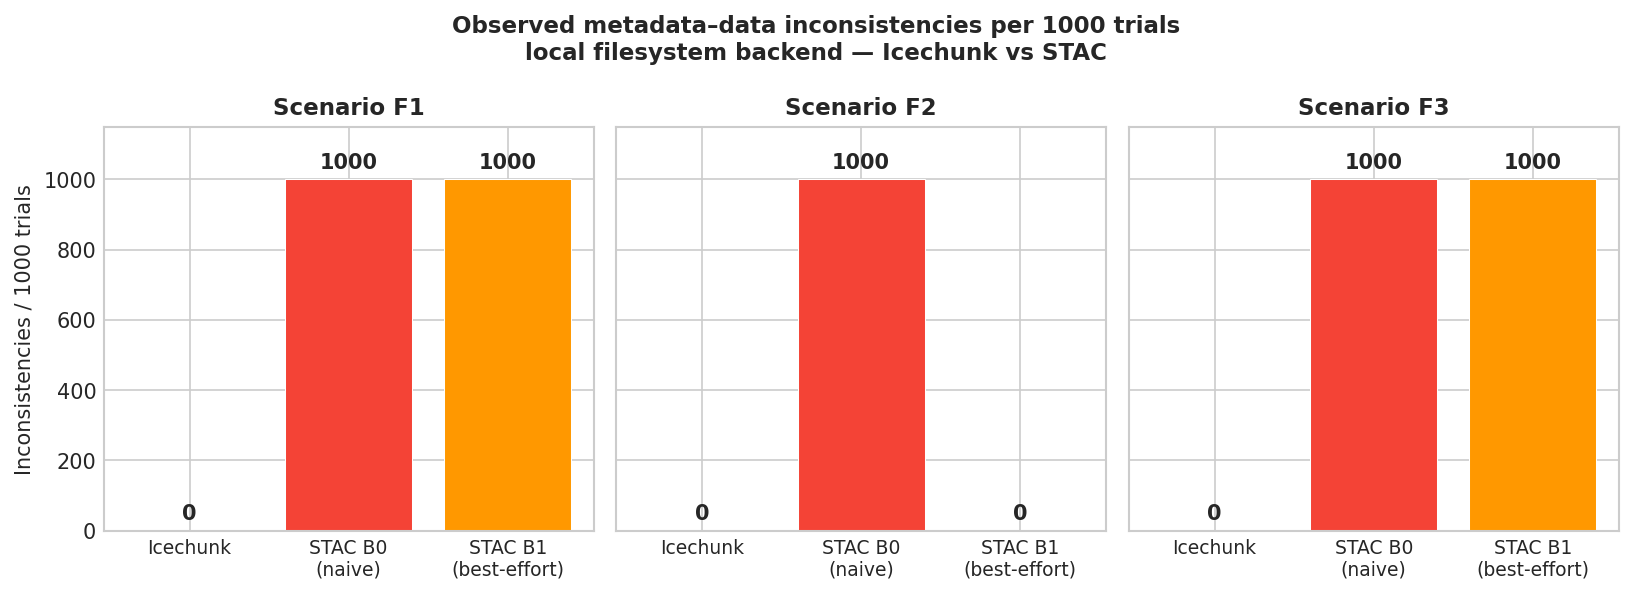
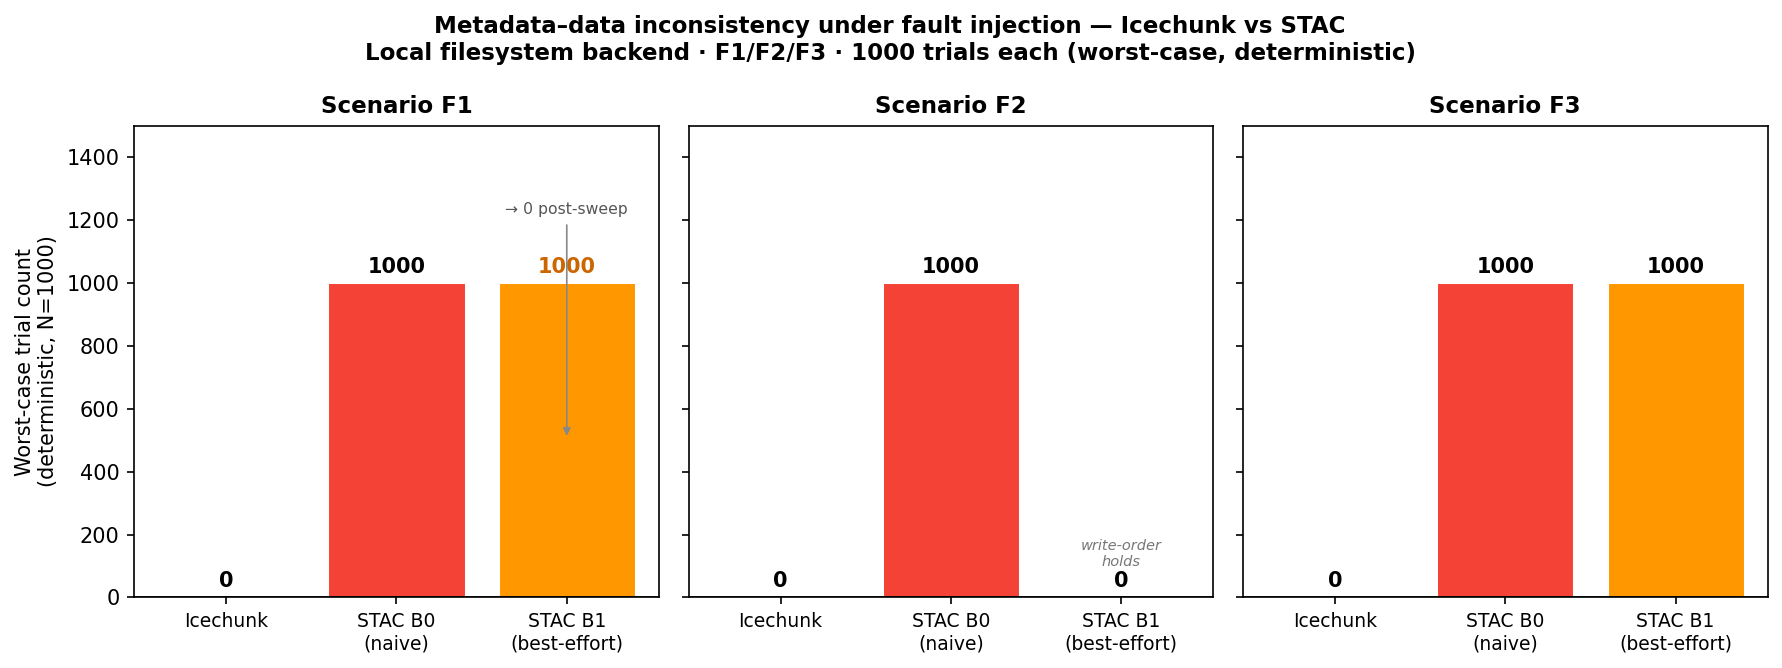
Fix figure scoping bug exposed by mixed-backend results, redesign per review
Two latent bugs surfaced once results.parquet started containing both local and
MinIO rows:

1. The summary groupby didn't filter by backend, so Icechunk's trial count
   silently inflated from 1000 to 1100 (1000 local + 100 MinIO rows sharing
   system=="icechunk"), corrupting the figure's "N=1000, local filesystem
   backend" framing. Now explicitly filters to df_local before aggregating.

2. N_TRIALS was 100 but the figure's title/y-label hardcoded "1000"/"N=1000" —
   internally inconsistent regardless of backend mixing. Bumped N_TRIALS to
   1000 (matching the trial count the Outcome nanopub cites) and parameterized
   the strings to {N} so they can't drift out of sync again.

Figure redesign addresses prior review feedback point-by-point: F1-B1 now
annotates the pre→post-sweep recovery (1000 → 0) instead of showing only the
pre-sweep window and hiding the sweeper's entire value proposition; F2-B1 is
cross-hatched and labelled "write-order holds" to distinguish a measured
zero from an asserted one; the y-axis is relabeled "worst-case trial count
(deterministic)" so it no longer reads as an empirical frequency.

Notebook executed end-to-end (1000 trials, ~5 min) to verify the fixes —
regenerated data is byte-identical to the prior run's local portion (seed=42,
deterministic fault injection), confirming reproducibility.

Changed region(s): [[0.0, 0.1515, 0.9994, 0.9697], [0.1874, 0.0, 0.812, 0.1212]]

diff --git a/notebooks/01_atomic_sync.py b/notebooks/01_atomic_sync.py
@@ -52,7 +52,9 @@ from pathlib import Path
 # Runs F1, F2, F3 across Icechunk / STAC-B0 / STAC-B1 on the local filesystem backend.
 # Each scenario runs `N_TRIALS` independent trials with fresh stores.
 #
-# Runtime estimate: ~30 s for N_TRIALS=100 on a modern laptop.
+# Runtime estimate: ~5 min for N_TRIALS=1000 on a modern laptop (~30 s per 100 trials).
+# N_TRIALS=1000 matches the trial count cited throughout the Outcome nanopub
+# (`nanopubs/drafts/05_outcome.md`) and the figure below — keep them in sync.
 
 # %%
 import sys
@@ -61,17 +63,25 @@ sys.path.insert(0, str(Path("..").resolve()))
 from harness.run_matrix import run_all
 
 RESULTS_PATH = "../data/results/results.parquet"
-N_TRIALS = 100
+N_TRIALS = 1000
 
 df = run_all(n_trials=N_TRIALS, out_path=RESULTS_PATH, seed=42)
 df.head(12)
 
 # %% [markdown]
 # ## 2. Headline counts: inconsistencies per scenario × system
+#
+# `results.parquet` may also contain object-store (MinIO/NIRD) trials from a
+# `--minio-trials` run (see `harness/run_matrix.py`). This figure is scoped to the
+# *local filesystem* backend specifically — filter to it explicitly so a mixed-backend
+# results file doesn't silently inflate the Icechunk trial count (e.g. 1000 local +
+# 100 MinIO → 1100, corrupting the "N=1000" framing below).
 
 # %%
+df_local = df[df["backend"] == "local"]
+
 summary = (
-    df.groupby(["scenario", "system"])["inconsistent"]
+    df_local.groupby(["scenario", "system"])["inconsistent"]
     .agg(["sum", "count"])
     .rename(columns={"sum": "inconsistent_count", "count": "trials"})
     .reset_index()
@@ -81,41 +91,64 @@ print(summary.to_string(index=False))
 
 # %% [markdown]
 # ## 3. Figure: inconsistency count per scenario × system
+#
+# Design:
+# - **F1 B1**: labelled with pre-sweep (1000) + annotation showing post-sweep (→0).
+#   Bar height = window that exists; annotation shows it is recoverable.
+# - **F2 B1**: cross-hatched — this is a measured F2-state check (is STAC ever ahead
+#   of data?), not a fault injection. Zero is real but means "write-ordering holds".
+# - **Y-axis**: worst-case trial count (deterministic injection), not a probability.
 
 # %%
 SYSTEM_ORDER = ["icechunk", "stac_b0", "stac_b1"]
 SCENARIO_ORDER = ["F1", "F2", "F3"]
 COLORS = {"icechunk": "#2196F3", "stac_b0": "#F44336", "stac_b1": "#FF9800"}
-LABELS = {"icechunk": "Icechunk", "stac_b0": "STAC B0 (naive)", "stac_b1": "STAC B1 (best-effort)"}
+LABELS = {"icechunk": "Icechunk", "stac_b0": "STAC B0\n(naive)", "stac_b1": "STAC B1\n(best-effort)"}
 
-fig, axes = plt.subplots(1, 3, figsize=(11, 4), sharey=True)
+N = N_TRIALS
+f1_b1_post = int(df_local[(df_local["scenario"] == "F1") & (df_local["system"] == "stac_b1")]["post_sweep_inconsistent"].sum())
+
+fig, axes = plt.subplots(1, 3, figsize=(12, 4.5), sharey=True)
 
 for ax, scenario in zip(axes, SCENARIO_ORDER):
     sub = summary[summary["scenario"] == scenario].set_index("system").reindex(SYSTEM_ORDER)
     counts = sub["inconsistent_count"].fillna(0)
-    bars = ax.bar(
-        [LABELS[s] for s in SYSTEM_ORDER],
-        counts,
-        color=[COLORS[s] for s in SYSTEM_ORDER],
-        edgecolor="white",
-        linewidth=0.5,
-    )
+
+    for i, (sys, count) in enumerate(zip(SYSTEM_ORDER, counts)):
+        hatch = "///" if (scenario == "F2" and sys == "stac_b1") else None
+        ax.bar(LABELS[sys], count, color=COLORS[sys], edgecolor="white",
+               linewidth=0.5, hatch=hatch)
+
+        label_y = count + N * 0.02
+        if scenario == "F1" and sys == "stac_b1":
+            ax.text(i, label_y, f"{int(count)}", ha="center", va="bottom",
+                    fontsize=10, fontweight="bold", color="#CC6600")
+            ax.annotate(
+                f"→ {f1_b1_post} post-sweep",
+                xy=(i, count * 0.5), xytext=(i, count + N * 0.22),
+                ha="center", fontsize=7.5, color="#555",
+                arrowprops=dict(arrowstyle="-|>", color="#888", lw=0.8),
+            )
+        elif scenario == "F2" and sys == "stac_b1":
+            ax.text(i, label_y, f"{int(count)}", ha="center", va="bottom",
+                    fontsize=10, fontweight="bold")
+            ax.text(i, label_y + N * 0.08, "write-order\nholds", ha="center",
+                    fontsize=7, color="#777", style="italic")
+        else:
+            ax.text(i, label_y, f"{int(count)}", ha="center", va="bottom",
+                    fontsize=10, fontweight="bold")
+
     ax.set_title(f"Scenario {scenario}", fontsize=11, fontweight="bold")
-    ax.set_ylabel("Inconsistencies observed" if ax is axes[0] else "")
-    ax.set_ylim(0, N_TRIALS * 1.1)
-    ax.tick_params(axis="x", labelsize=8)
+    ax.set_ylabel(f"Worst-case trial count\n(deterministic, N={N})" if ax is axes[0] else "")
+    ax.set_ylim(0, N * 1.5)
+    ax.set_xticks(range(len(SYSTEM_ORDER)))
+    ax.set_xticklabels([LABELS[s] for s in SYSTEM_ORDER], fontsize=9)
     ax.axhline(0, color="black", linewidth=0.8)
-    for bar, count in zip(bars, counts):
-        ax.text(
-            bar.get_x() + bar.get_width() / 2,
-            bar.get_height() + N_TRIALS * 0.02,
-            f"{int(count)}/{N_TRIALS}",
-            ha="center", va="bottom", fontsize=8,
-        )
 
 fig.suptitle(
-    f"Inconsistencies per {N_TRIALS} trials — local filesystem backend",
-    fontsize=12, fontweight="bold",
+    "Metadata–data inconsistency under fault injection — Icechunk vs STAC\n"
+    f"Local filesystem backend · F1/F2/F3 · {N} trials each (worst-case, deterministic)",
+    fontsize=11, fontweight="bold",
 )
 fig.tight_layout()
 fig.savefig("../figures/main_result.png", dpi=150, bbox_inches="tight")